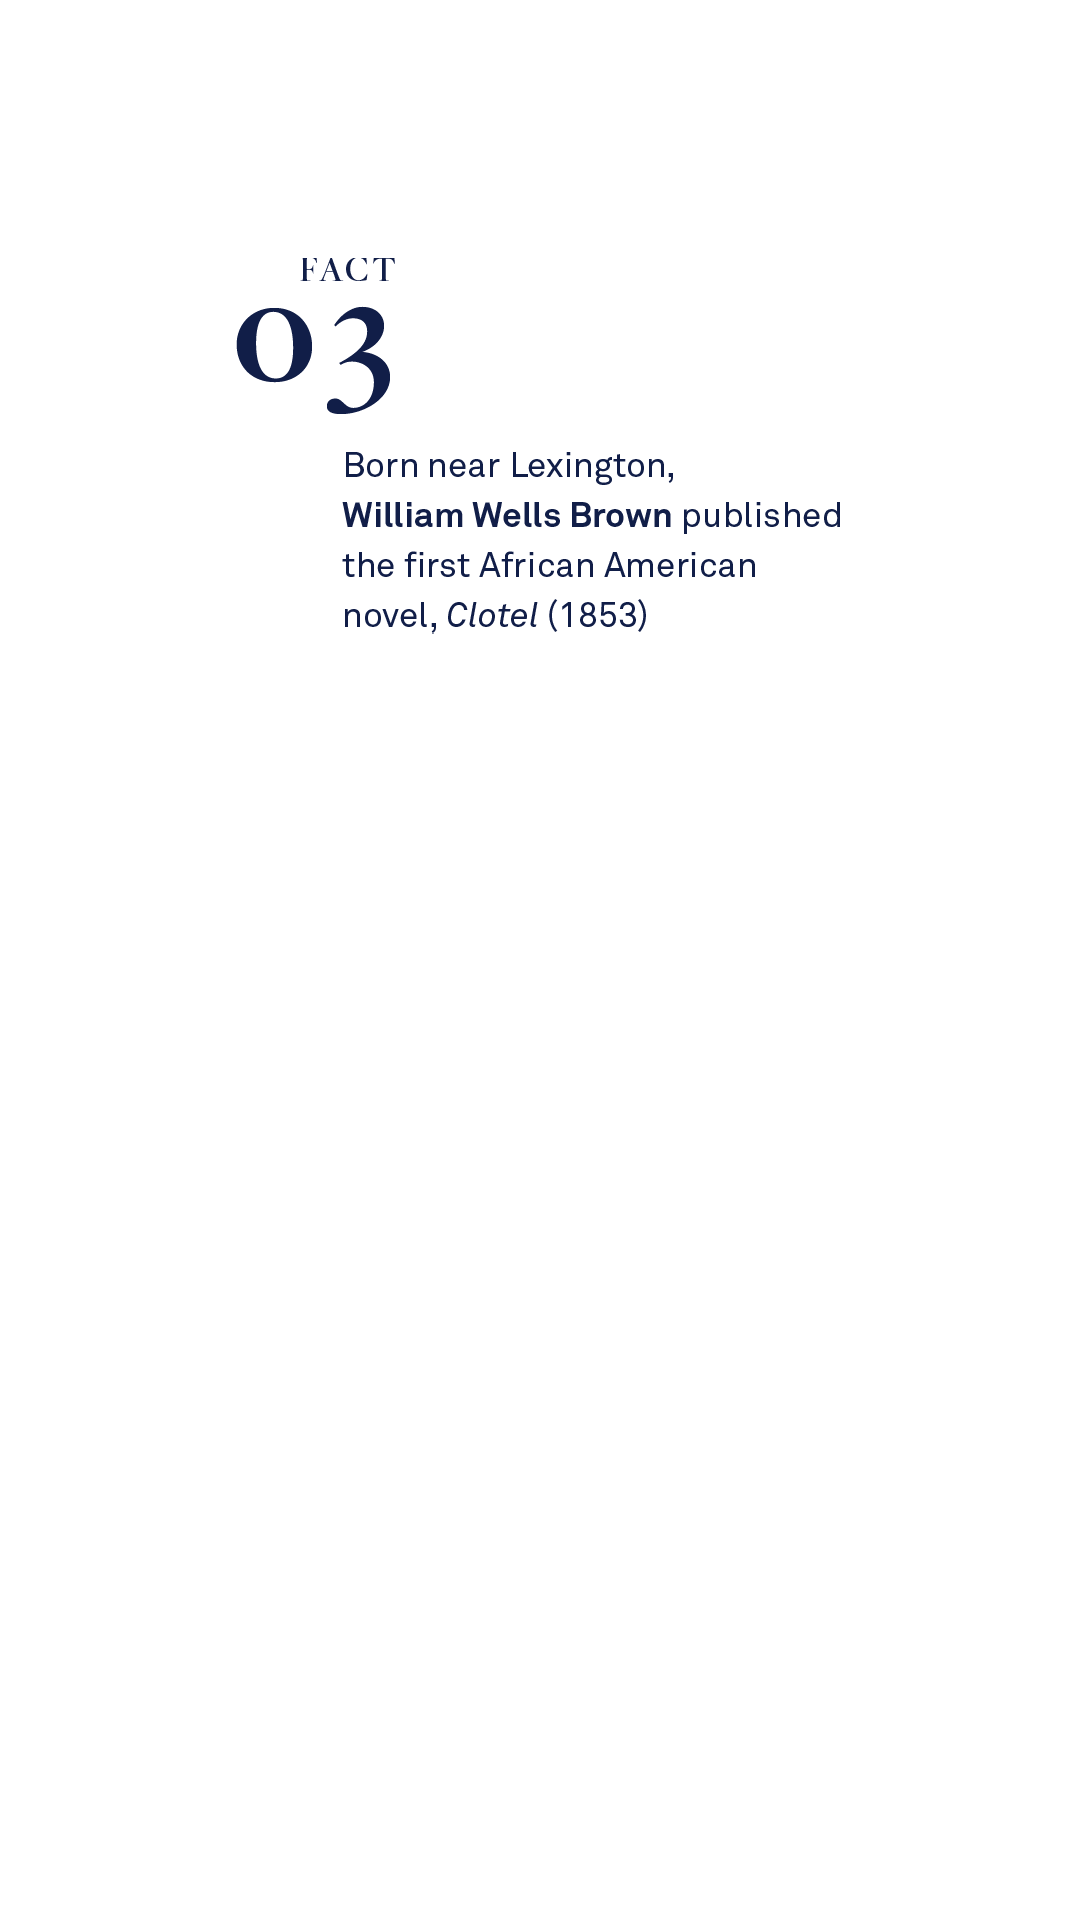
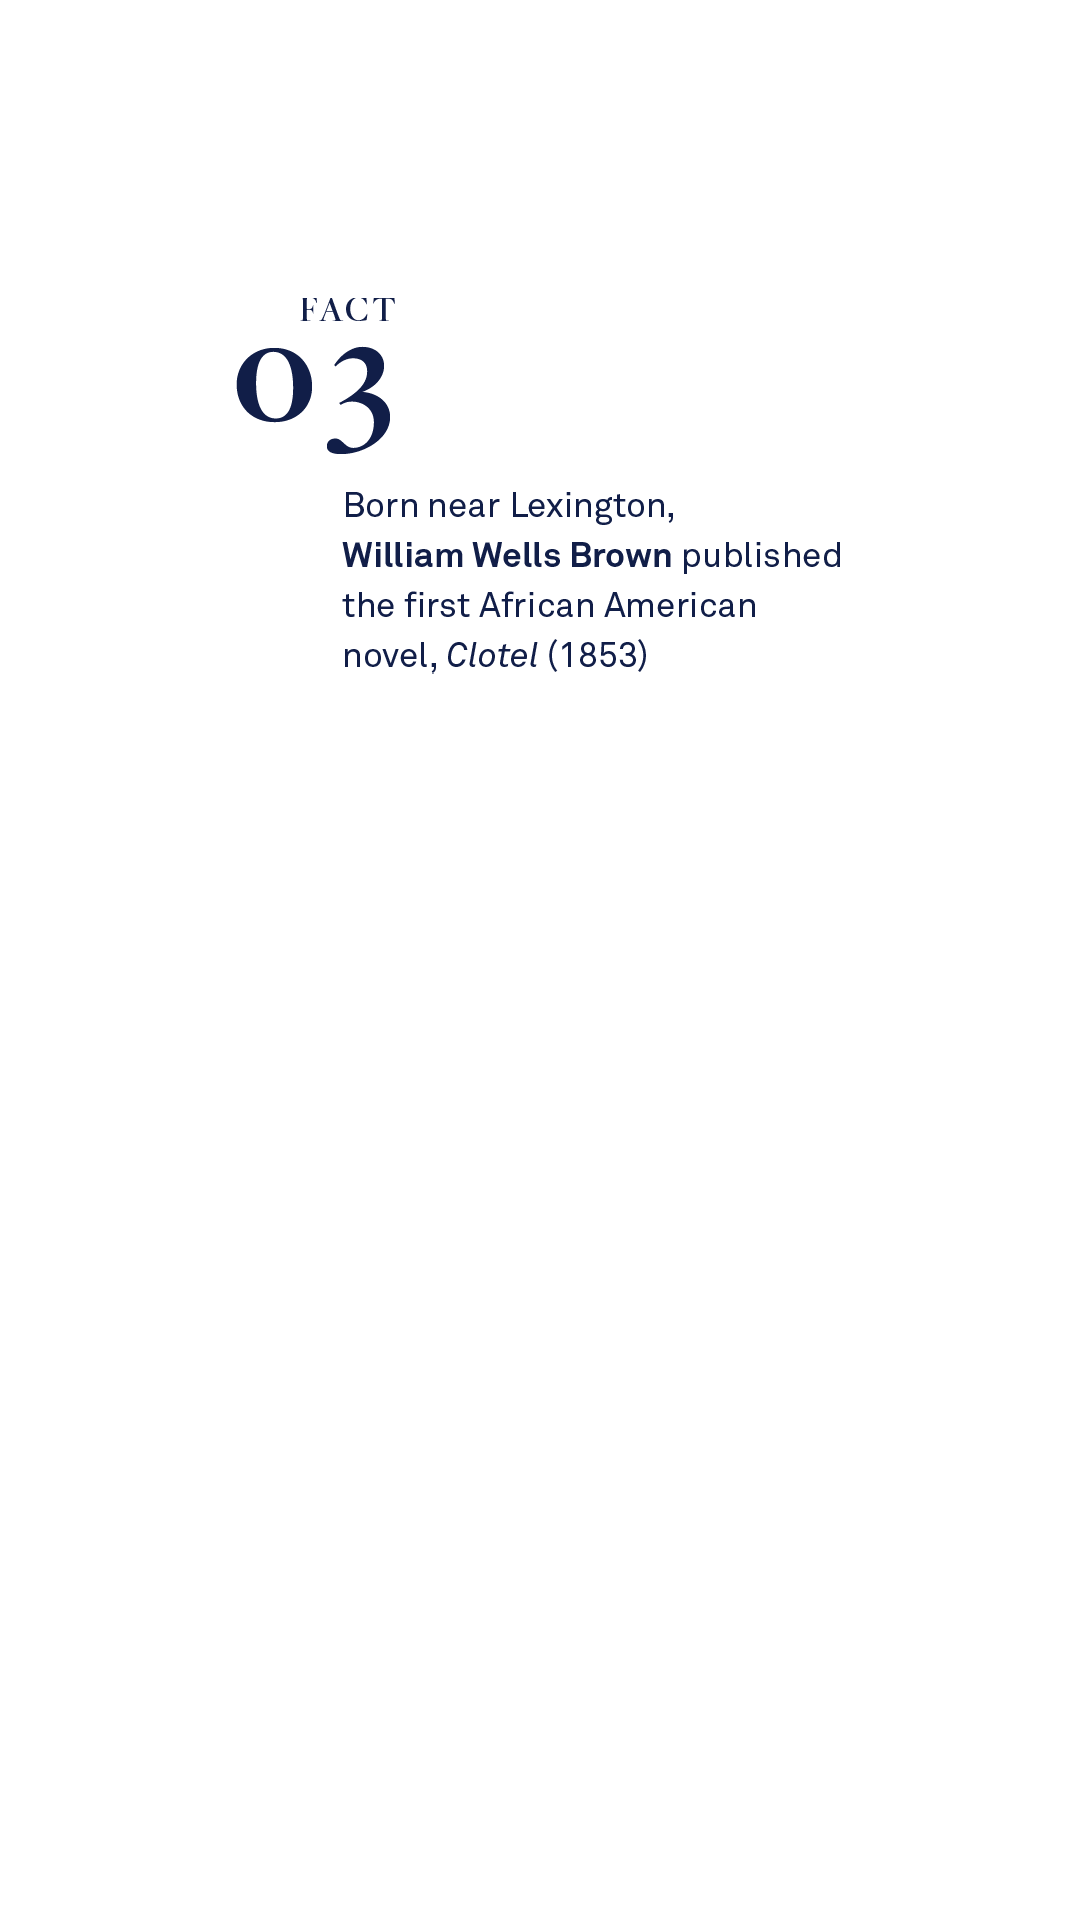
Remove whitespace at bottom, adjust image positions

Changed region(s): [[0.2137, 0.1249, 0.7632, 0.3436]]

diff --git a/index.html b/index.html
@@ -23,6 +23,8 @@
         perspective: 300px;
         -webkit-perspective-origin-x: 100%;
         perspective-origin-x: 100%;
+        /* Removes whitespace at bottom as a result of perspective */
+        padding-bottom: 650px;
       }
 
       .parallax__group {
